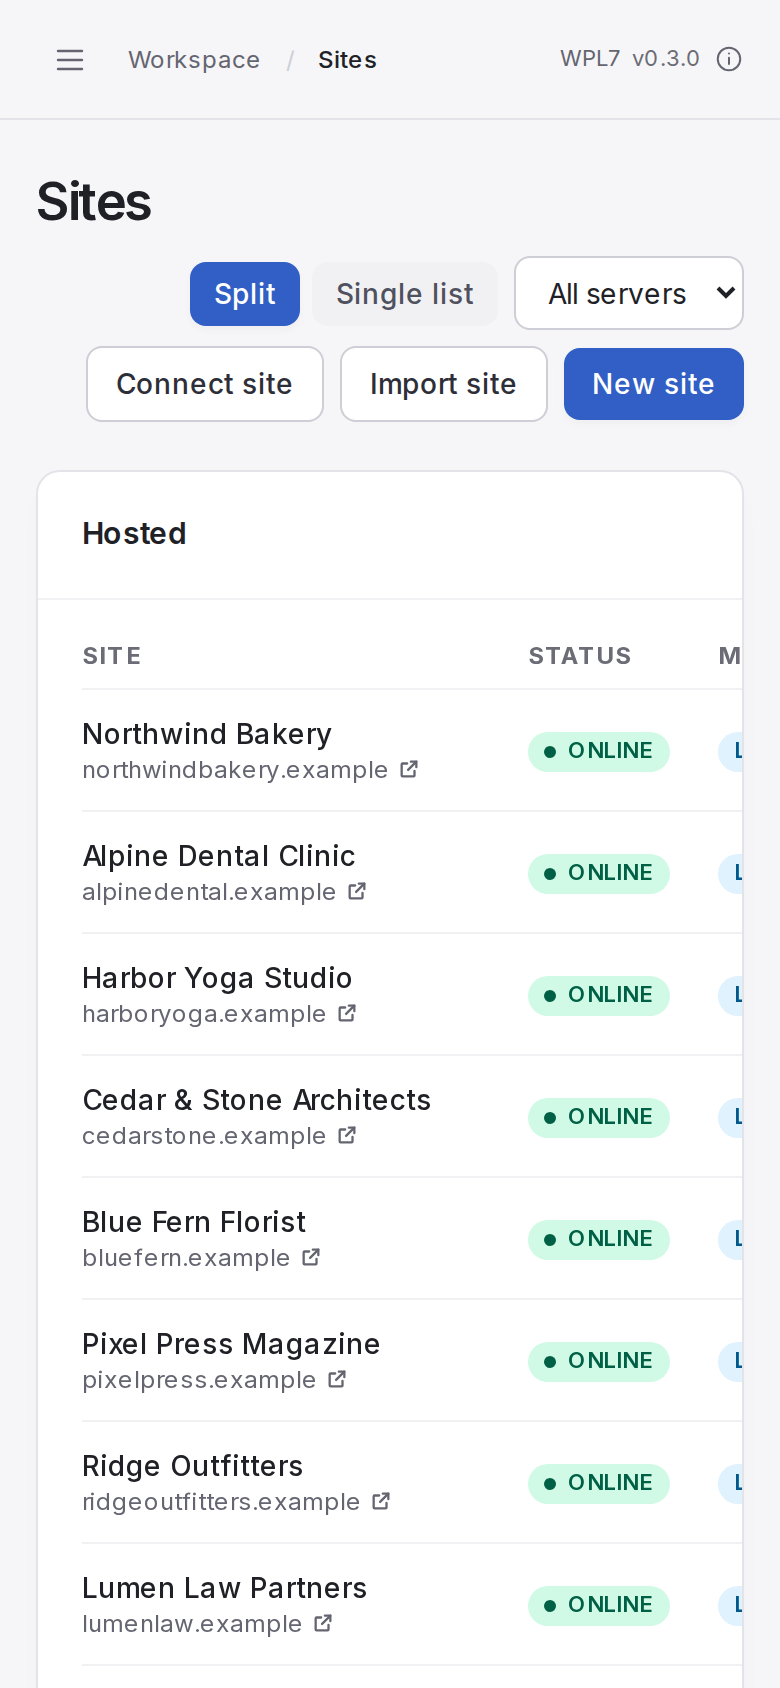
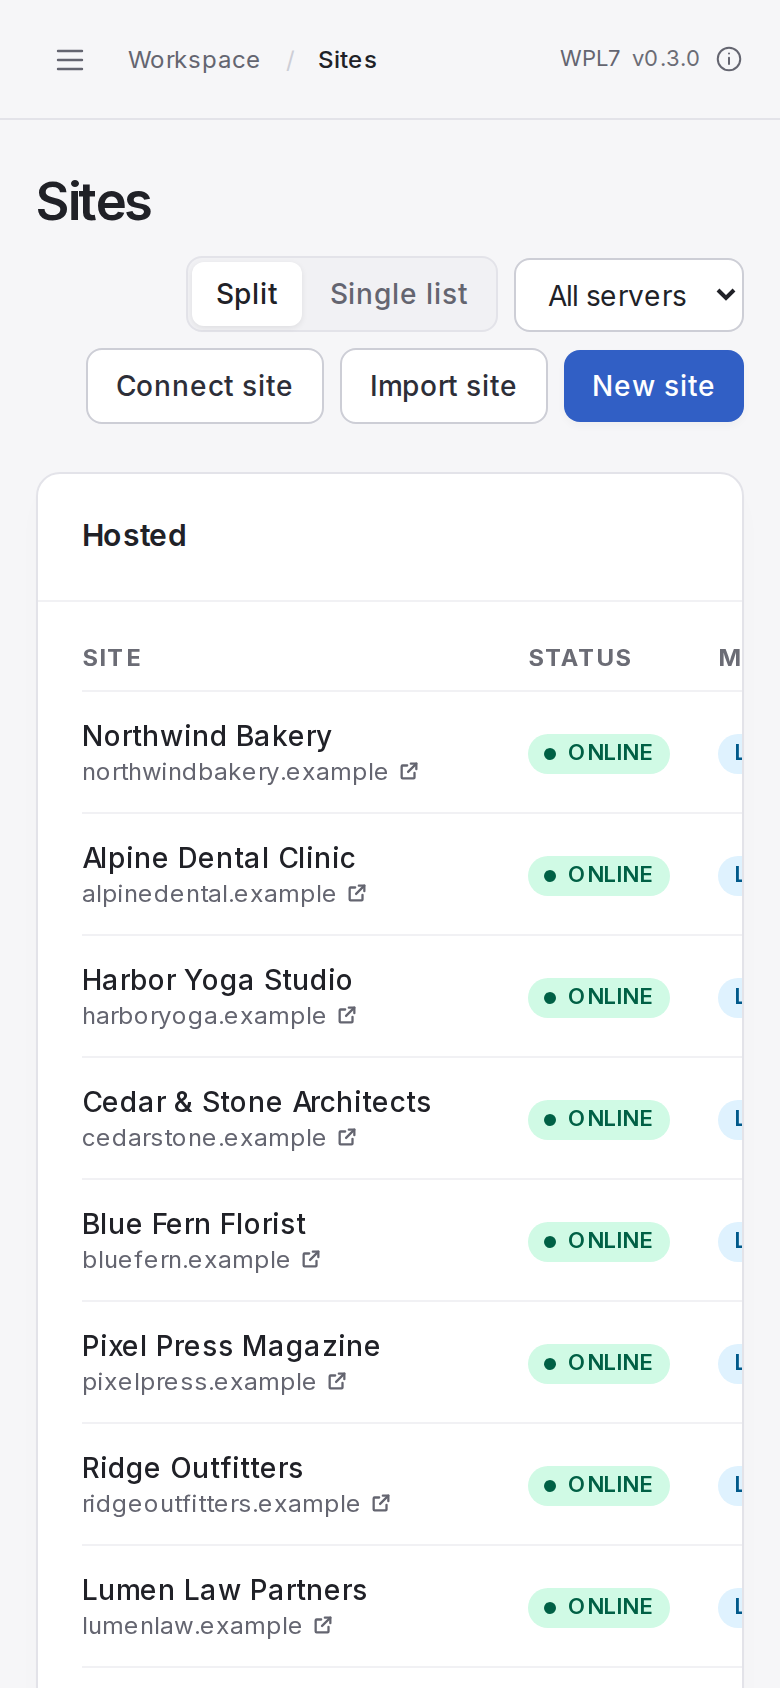
A site's Move server button is now Change server, and the Sites list's Split / Single list switch is grey (#76)
"Move server" moves the site, not the server: the button on a site's Overview is now
Change server. The Sites list's Split / Single list switch showed its chosen option in the
accent colour, right beside New site, so it looked like a second main button. It is now one
grey track with the chosen option raised on it (Segmented's new `muted`), like the theme
switch in the sidebar. Every other Segmented keeps its look.

diff --git a/panel/web/src/components/ui.tsx b/panel/web/src/components/ui.tsx
@@ -195,6 +195,7 @@ export function Segmented<T extends string>({
   value,
   onChange,
   small = false,
+  muted = false,
   label,
   disabled = false,
 }: {
@@ -202,12 +203,18 @@ export function Segmented<T extends string>({
   value: T;
   onChange: (id: T) => void;
   small?: boolean;
+  /**
+   * One grey track with the chosen option raised on it (`.segmented-muted`), instead of the
+   * chosen option in the accent colour: for a choice beside a page's primary button, where an
+   * accent-coloured option would look like a second primary button.
+   */
+  muted?: boolean;
   /** What the group chooses, for screen readers. */
   label?: string;
   disabled?: boolean;
 }) {
   return (
-    <div role="group" aria-label={label} className="flex flex-wrap items-center gap-1.5">
+    <div role="group" aria-label={label} className={muted ? 'segmented-muted' : 'flex flex-wrap items-center gap-1.5'}>
       {options.map((option) => (
         <button
           key={option.id}
@@ -216,8 +223,8 @@ export function Segmented<T extends string>({
           title={option.title}
           disabled={disabled}
           onClick={() => onChange(option.id)}
-          className={`rounded-lg font-medium transition-colors disabled:cursor-not-allowed disabled:opacity-60 ${small ? 'px-2.5 py-1 text-xs' : 'px-3 py-1.5 text-sm'} ${
-            value === option.id ? 'button-primary' : 'bg-neutral-100 text-neutral-600 hover:bg-neutral-200'
+          className={`font-medium transition-colors disabled:cursor-not-allowed disabled:opacity-60 ${small ? 'px-2.5 py-1 text-xs' : 'px-3 py-1.5 text-sm'} ${
+            muted ? '' : value === option.id ? 'rounded-lg button-primary' : 'rounded-lg bg-neutral-100 text-neutral-600 hover:bg-neutral-200'
           }`}
         >
           {option.label}

diff --git a/panel/web/src/styles.css b/panel/web/src/styles.css
@@ -791,6 +791,35 @@
 .button-primary:disabled {
   opacity: 0.45;
 }
+/*
+ * <Segmented muted> in ui.tsx: one track, the chosen option raised on it. As tall as the
+ * secondary buttons and selects beside it. The dark theme's surface is darker than its track,
+ * so a chosen option there is lifted with a lighter grey instead.
+ */
+.segmented-muted {
+  display: inline-flex;
+  align-items: center;
+  gap: 2px;
+  padding: 2px;
+  border: 1px solid var(--n200);
+  border-radius: 8px;
+  background: var(--n100);
+}
+.segmented-muted button {
+  border-radius: 6px;
+  color: var(--n500);
+}
+.segmented-muted button:hover:enabled {
+  color: var(--n900);
+}
+.segmented-muted button[aria-pressed='true'] {
+  background: var(--surface);
+  color: var(--n900);
+  box-shadow: 0 1px 3px #00000014;
+}
+:root[data-theme='dark'] .segmented-muted button[aria-pressed='true'] {
+  background: var(--n300);
+}
 .stat-tile {
   padding: 22px;
   position: relative;

diff --git a/panel/web/src/pages/Sites.tsx b/panel/web/src/pages/Sites.tsx
@@ -53,7 +53,7 @@ export function Sites() {
       <div className="flex flex-wrap items-center justify-between gap-3">
         <h1 className="page-title">Sites</h1>
         <div className="flex flex-wrap items-center justify-end gap-2">
-          {view.choice && <Segmented label="Layout" options={LAYOUTS} value={layout} onChange={chooseLayout} />}
+          {view.choice && <Segmented muted label="Layout" options={LAYOUTS} value={layout} onChange={chooseLayout} />}
           {multiServer && (
             <select
               className={`${inputClass} w-auto`}

diff --git a/panel/web/src/pages/SiteDetail.tsx b/panel/web/src/pages/SiteDetail.tsx
@@ -399,7 +399,7 @@ function OverviewTab({ slug }: { slug: string }) {
           )}
           {multiServer && (
             <Button small variant="secondary" onClick={() => setMoveOpen(true)}>
-              Move server
+              Change server
             </Button>
           )}
         </div>

diff --git a/docs/operations.md b/docs/operations.md
@@ -187,7 +187,7 @@ The operational short version:
 - **Remove**: move or delete its sites first; `?force=true` additionally drops records of backups
   stranded on a dead server. Revoke the panel's access by deleting its key line from
   `~wpl7-panel/.ssh/authorized_keys` on the server.
-- **Move a site**: site page → **Move server** (docs/multi-server.md#moving-a-site).
+- **Move a site**: site page → **Change server** (docs/multi-server.md#moving-a-site).
 - **Offsite backups**: the panel copies backups to a bucket or another server itself — **Backups →
   Storage → Add remote destination** (docs/backup-restore.md#offsite-copies). Uploads run on the
   server that holds the backup, so a fleet needs one destination, not one per machine. The nightly

diff --git a/docs/multi-server.md b/docs/multi-server.md
@@ -134,7 +134,7 @@ wildcard certificate: docs/dns.md.
 
 ## Moving a site
 
-**Site page → "Move server"** or `POST /api/sites/:slug/move {"targetServerId": N}`. Hostnames never
+**Site page → "Change server"** or `POST /api/sites/:slug/move {"targetServerId": N}`. Hostnames never
 change, so there is no URL rewriting — a move is copy + cutover + DNS:
 
 1. **Preflight on the target**: reachable, MariaDB healthy, leftovers of a previous failed attempt
